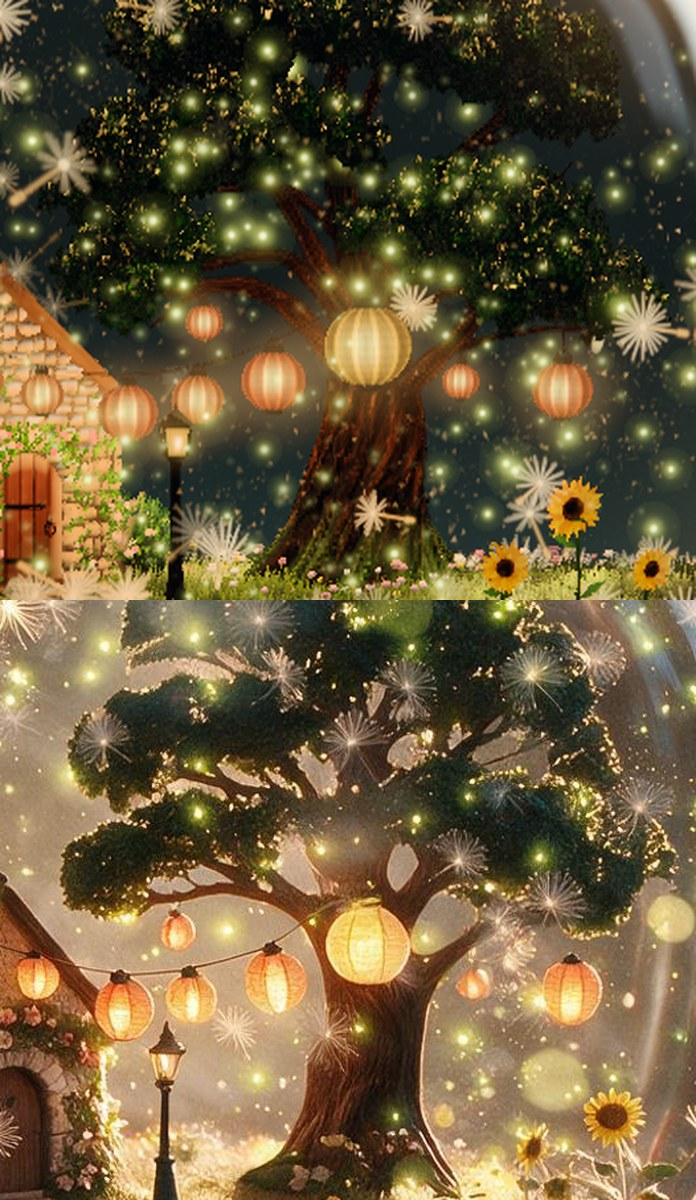
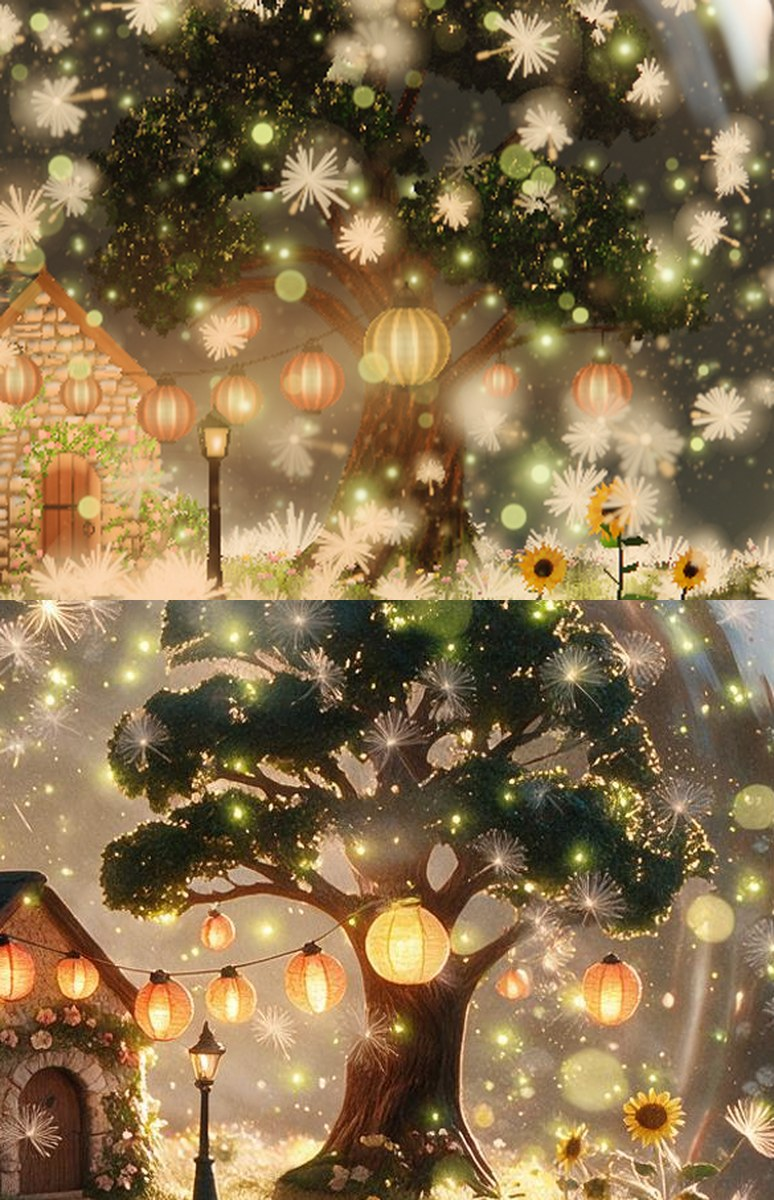
looks: summer miniature at the tip c19be78, REPORT.md and HANDOVER.md
Make targets, in order: npm run make -- tree-summer, npm run make -- village-summer, then npm run texpack, npm run build.

diff --git a/REPORT.md b/REPORT.md
@@ -1,0 +1,97 @@
+# summer_mini2: report (Phase 4, summer miniature, second set)
+
+Times are UTC, 25 Nov 2026, read from `date -u`.
+
+## Branch
+- `agent/p4-summer_mini2`, last commit `c19be78` (merge of main `194209a` over `2dc802e`), pushed 05:12.
+- Looks: `agent/p4-summer_mini2-looks` (orphan), this report and `HANDOVER.md` live there.
+- My commits, oldest first: `125ef00`, `6b12ad1`, `e2dc3ca`, `d8a8029`, `31350a0`, `fb76e68`, `2b9098f`, `5563d46`, `d3d1ea1`, `8dd8d2c`, `9d0e8ba`, `2dc802e`.
+
+## Make targets, in order
+1. `npm run make -- tree-summer` (about 11 s)
+2. `npm run make -- village-summer` (about 2 s)
+3. `npm run texpack`
+4. `npm run build`
+
+For a true triangle count of the season, `npm run make -- base-summer` (bases2's target, 26 s) has to run too after `git checkout -- assets-full public/assets`; my clone did not do that until 05:13, and my season figures of 04:58 were wrong for that reason (see below).
+
+Make prints at the tip:
+- `tree-summer: leaves 49404 triangles (7649 tufts, 32576 triangles at medium, 27988 at low), lanterns 11744 (10 lanterns); 138 lumps on 10 pads`
+- `village-summer: ground 31920, water 2160, grass 63000 (21000 tufts, 32487 at medium, 21345 at low), decor 29061 (141 roses, 7400 leaves, 5 sunflowers, 249 blooms)`
+- Web files: `public/assets/summer/tree-summer.glb` 1,504,772 bytes, `village-summer.glb` 4,622,040 bytes.
+
+## Stand-ins and fallbacks
+None in my files. No pixel of an approved image is in the app.
+
+## Round 9 issues, what was done
+| Issue | State | Commit |
+| --- | --- | --- |
+| Pond a flat opaque cream cutout (R1 #9, R3-1, R3-2, R2) | Dark water; bank, post, trunk and lanterns mirrored and broken on ripples; sky patch; dark wet bank. Seen on the hero still. Not done: mossy stones on the far shore, a shallow submerged edge. | `125ef00`, `e2dc3ca` |
+| No sand rim, no stepping stones (R1 #9) | Sand rim and stones are there. The woven tile in the sand is gone (grain from a noise in globe millimetres), tone drawn towards white. Still cream-grey and flat beside the approved fluffy white sand. | `125ef00`, `fb76e68`, `5563d46` |
+| Lanterns pale and chalky (R1 #13) | Vertical gores, saturated paper, core lowered so the orange holds. Still a little paler than the approved ones. | `e2dc3ca`, `9d0e8ba` |
+| Lamp head an opaque white block (R1 #13) | Amber glass. Still a glowing block: the approved lamp is a black lantern with warm panes. Shape is shared. | `d8a8029` |
+| Trunk a smooth cone (R1 #14, R3-2) | Fluted bark relief, rim light on the forks. | `125ef00` |
+| Crown a dense opaque mass, repeated clumps (R1 #14, R2, R3-2) | Sprays vary in scale and tone, crown fuller and darker teal, gold on the rims. Still lighter and more speckled than the approved crown. | `d8a8029`, `2b9098f`, `5563d46`, `9d0e8ba` |
+| Cottage: roof, chimney, windows, ivy, sunflowers, fence (R1 #12, R2) | Found the cause of the pale gable: the roof's solid fills the gable, so the wall above the eaves was painted as slate. Now warm stone gable, brown plank door, blue slate, grey chimney, ivy and roses on the side wall, wooden pickets, larger sunflower leaves. Not done: chimney height, roof thickness and fence shape are shared shapes. | `d3d1ea1`, `8dd8d2c` |
+| G15 triangles | My files 187,289 / 124,273 / 78,386 (high / medium / low) = 0.719 / 0.607 / 0.456 of `fe1072c` (260,547 / 204,775 / 171,933); limits 0.73 / 0.70 / 0.78. | `d8a8029`, `31350a0`, `2dc802e` |
+
+Nothing the approved pair asks for was undone. The critic's wish for snow caps was ignored as told.
+
+## Still wrong, worst first
+1. Crown: lighter, more olive and more speckled than the approved dark teal mass with a gold rim.
+2. Sand rim inside the glass: cream-grey and flat; the approved one is fluffy white with sunlit highlights and shadow.
+3. Lamp head: a glowing amber block, not a black lantern with warm panes (shared shape; a dark frame could be added as decor in `assets-src/village-summer/build.mjs`).
+4. Cottage: stone courses read as bricks, roof thin, chimney too tall, fence is a picket fence (the last three are shared shapes).
+5. Pond: bright patch peach rather than cream-white and smaller than in the approved picture; no mossy stones on the far shore; bank reads as one dark line.
+6. Lanterns a little paler than the approved ones.
+7. Sunflowers not looked at closely after the last change (larger leaves); they were named "overly simple" in R2.
+8. M3 has only been run at draft tier here (0.8834, pass). An earlier observation in this session was that draft reads about 0.16 higher than final for this measure; I did not run it at final tier, so a pass at final is not shown.
+9. Outside my files, but in front of my part: on main since about 04:50 the dandelion seeds are large and many and lie heaped on the grass and the pond in the hero still at rest (looks picture 01).
+
+## Triangles (G15)
+- Baseline at `fe1072c`, measured in a temporary worktree: tree 74,304 / 64,014 / 57,585, village 186,243 / 140,761 / 114,348.
+- Now, per mesh (high / medium / low): leaves 49,404 / 32,576 / 27,988; lanterns 11,744 / 11,744 / 3,709; ground 31,920 / 18,322 / 5,923; water 2,160 / 83 / 38; grass 63,000 / 32,487 / 21,345; decor 29,061 / 29,061 / 19,383.
+- Season, `node out/work/bin/tris.mjs summer` on `c19be78` with base-summer remade, 05:14: drawn 1,659,436 of 1,800,000 (high), 915,548 of 1,100,000 (medium), 438,010 of 600,000 (low).
+- Passes found: view, shadow (casters), planar mirror of the slab at high and medium (whole stage drawn again with the world's height scale at -1). In my files: grass gives the mirror nothing, the ground casts no shadow, the cottage mesh gives the mirror only its shared walls (decor left out). The hero still at rest was identical pixel for pixel before and after the last of these.
+- Corrections: the message of `31350a0` gives wrong figures for my files (122,383 / 85,603); the right ones at that commit were 188,879 / 126,383 / 81,400. My season figures sent at 04:58 (1,983,482 / 1,205,844 / 536,568) counted the committed, uncut `base-summer.glb`, because my clone had not remade it.
+
+## Tests
+- `npx tsc --noEmit`: clean before every push.
+- `npx vitest run`: `Test Files 32 passed | 1 skipped (33)`, `Tests 432 passed | 4 skipped (436)` before every push, last at 05:11.
+- `npm run determinism`: run 05:15 to 05:21 on `c19be78`; last line `determinism: pass · 3 pictures, 4 page loads, preview, draft, 352 s`.
+- `npm run measure -- --unit summer --only M2,M3,M6 --tier draft`: run 05:21 to 05:25 on `c19be78`; `measure summer: not complete · 13 of 19 lines, 0 red · draft · 258 s`. `pass M3 summer-rest: 0.8835 (threshold 0.75, detail.minSharpnessRatio)`, miniature 0.884 over 120,438 pixels, base 2.145; `pass M2` at 0 for rest, shake, interior, base, surface and settled; M6 passed in the run at 05:02 on `9d0e8ba` (0 of 102,000 particles inside a solid at rest, 9 of 102,000 in the shake) and was among the 13 lines without red in the last run.
+
+## Looks
+About 38 of 40 viewed (the count before 04:22 is from my notes and is approximate), all hero or interior stills at `--tier draft --format hd` beside the approved crop, or crops of them. Two more renders were made and not viewed: one at 04:41 after an edit script had failed (identical to the one before), one at 05:11 compared by pixel only.
+
+## Mistakes of mine
+- At 03:52 I once used `git add -A .` inside the looks worktree (only pictures and captions were in it). Every other commit names its paths.
+- Between 04:22 and 04:53 I rendered with summer_air2's `rig.ts`, `veil.ts` and `glass.ts` copied over my working tree (never committed) to see my part under their light. After main took their later commit the copies were stale; the still viewed at 04:51 was made with them and is not a true picture of any commit. From 04:53 on every still is of the committed tree.
+- The caption of looks picture 04 in `e3fba4a` says the lantern string is not drawn. It is drawn; it shows in the later stills.
+
+## Constants at the tip
+`src/seasons/summer/mini/village.ts`
+- `NEAR_WALL = { lamp: { power: 1.3, reachMm: 8, ends: 3 }, pane: { power: 1.6, reachMm: 4.5, ends: 3 }, paper: { power: 3, reachMm: 4.6, ends: 3 } }`, `WALL_FILL = 2.3`
+- `SAND = { white: [0.86, 0.9, 0.98], whiten: 0.8, clumpPerMm: 1.1, grainPerMm: 4.2, heapPerMm: 0.16, heapLow: 0.6, heap: 0.6, body: 3.6, floor: 0.8, wrap: 1.5, foot: 0.85, bump: 0.6, grainLow: 0.62, grain: 0.5, spark: 1.5, topFrom: 0.22, topTo: 0.62 }`
+- `GRASS_LOOK = { fill: 0.1, wrap: 1.0, through: 0.36, near: 2.1, sun: 30, sunRoot: 0.35, shade: 0.6 }`
+- `ROOF = { slate: [0.33, 0.41, 0.56], chimney: [0.4, 0.37, 0.35], stone: [1.12, 0.84, 0.66], stoneMid: 0.34, stoneFlat: 0.45, stoneHue: 0.5, plank: [0.5, 0.26, 0.15], plankMm: 2.2, plankTall: 3.8, pitch: 0.2, stoneMm: 1.4, picket: [0.5, 0.27, 0.14], picketMm: 1.6, pale: 0.25, railTop: [1.5, 1.2, 0.85], door: [0.27, 0.125, 0.08], doorMm: 2.4, reachMm: 0.4 }`
+- `WATER = { spark: 1.1, mass: 0.975, houseMm: 9.5, houseTall: 17, flat: 0.14, wobble: 0.9, rough: 0.035, ripple: 0.0045, fine: 0.0012, shoreFrom: 0.9, shoreTo: 1.0, sky: 2.6, skyFrom: -0.75, skyTo: 0.35, skyAt: 1.5, skyWide: 9.5, skyLow: 0.1, bankMm: 1.6, bankVary: 2.2, bankEdge: 0.16, bankDark: 0.975, env: 0.1, glint: 0.5, squash: 0.14, paperGlint: 2.4, paperMm: 1.5, paperTall: 0.5, post: 0.93, postMm: 0.75, postTall: 11.5, trunk: 0.975, trunkMm: 5.2, trunkTall: 26, body: 0.4 }`
+- `LAMP_GLASS = [1.7, 0.82, 0.22]`; `palette.ts`: `waterSky [1, 0.95, 0.84]`, `waterDeep [0.016, 0.03, 0.03]`
+
+`src/seasons/summer/mini/tree.ts`
+- `WOOD = { relief: 0.95, ridges: 5, warp: 2.6, fine: 0.4, low: 0.42, high: 1.3, from: 0.15, to: 0.85, depthMm: 1.5, rim: 5.5, rimTight: 2.2, side: 0.9, wrap: 0.95, mossTo: 7.5, moss: 0.8 }`, `BARK [0.62, 0.35, 0.19]`
+- `LEAF_TINT = [0.24, 0.55, 0.45]`, `LEAF_VARY = { big: 0.36, mid: 1.15, scaleLow: 0.78, scale: 0.5, cool: [0.5, 0.74, 0.95], warm: [1.15, 1.16, 0.86] }`
+- `LEAF = { rim: 9, rimTight: 3.2, through: 0.7, tight: 3.0, fill: 0.5, wrap: 0.8, bump: 1.0, clumpDark: 0.5, clumpBright: 1.3, top: 5, card: 1.0, topEdge: 1.6, topFrom: 0.06, topTo: 0.2 }`; the gold faces up from `smoothstep(0.2, 0.8, normal.y)`
+- `LANTERN = { rib: 0.6, gores: 12, ring: 0.18, ribs: 26, gain: 0.72, body: 0.6, core: 1.8, tight: 3.0, paper: 0.06, dim: 0.1, ... }`, `HALO = { radius: 2.9, strength: 0.11, hot: 0 }`
+
+`src/seasons/summer/mini/crown.ts`: `FULL = { swell: -0.55, perMm2: 0.5, radius: [0.95, 2.5], dome: 0.8, reach: 1.3, blend: 0.16, knob: 0.3, knobMm: 1.15, wave: 0.45, waveMm: 4.3 }` (this field is also the distance field of the crown at run time).
+
+`assets-src/tree-summer/build.mjs`: `LEAF_CELL = 0.65`, `LEVEL_SPRIGS = { medium: 0.45, low: 0.3 }`, `SPRIGS = { share: 0.8, size: [1.5, 2.6], rise: 0.35, out: 0.34 }`, `TONE = { deep: [0.3, 0.54, 0.3], mid: [0.56, 0.86, 0.44], tip: [0.95, 1.3, 0.62] }`, `PAPER = { orange: [1, 0.19, 0.045], peach: [1, 0.27, 0.07], cream: [1, 0.52, 0.11] }`.
+
+`assets-src/village-summer/build.mjs`: `IVY = { leaves: 760, roses: 14, low: 4.5, size: 0.62 }`, `TURF = { lumpMm: 0.35, fineMm: 0.12, sandMm: 0.7, sandReach: 6.5, sandSides: 0.35 }`, `GRASS = { tufts: 21000, blades: 3, ... }`, `LEVEL = { seed: 4107, medium: { back: 0.4, front: 0.72 }, low: { back: 0.25, front: 0.5 }, zFrom: -12, zTo: 6 }`, `STONE.buried = 0.25`; sunflower leaf size `tall * 0.36`.
+
+## ASSETS.md rows
+The rows come from the `RECIPE.md` of each folder; both were brought up to date in `2dc802e`:
+- `assets-full/summer/tree-summer.glb`: made by `assets-src/tree-summer/build.mjs`, `npm run make -- tree-summer`; mesh `leaves` is the field of the crown walked with marching cubes at 0.65 mm with sprig cards on it, and names its own medium and low lists; mesh `lanterns` unchanged in kind.
+- `assets-full/summer/village-summer.glb`: made by `assets-src/village-summer/build.mjs`, `npm run make -- village-summer`; meshes `ground`, `water`, `grass` (own medium and low lists), `decor` (now also ivy and roses on the side wall).
+- `assets-full/summer/village-turf.lin.tile.png`, `tree-leaves.srgb.tile.w1024.png`, `tree-sprigs.srgb.w512.png`: unchanged by me.

diff --git a/HANDOVER.md b/HANDOVER.md
@@ -1,0 +1,55 @@
+# Handover: summer miniature (from summer_mini2)
+
+Times are UTC, 25 Nov 2026.
+
+## Where things are
+- Branch `agent/p4-summer_mini2`, tip `c19be78`. Looks branch `agent/p4-summer_mini2-looks` (orphan; pictures, `captions.txt`, `REPORT.md`, this file).
+- Nothing of mine is uncommitted. No stand-in, no fallback.
+
+## Files of this part
+- `assets-src/tree-summer/**`: `build.mjs` (crown mesh from the field in `crown.ts`, sprig cards, lanterns, own medium and low index lists written as `primitive.extras.levels`), `RECIPE.md`, `gen/`.
+- `assets-src/village-summer/**`: `build.mjs` (ground, water, grass, decor: roses, ivy, sunflowers, blooms, stones; own level lists for the grass), `RECIPE.md`.
+- `src/seasons/summer/miniature.ts`: exported names unchanged.
+- `src/seasons/summer/mini/village.ts`: turf, sand, pond, grass and wall materials; `dressed()` recolours this season's copy of the shared cottage; `unmirrored()` keeps meshes out of the slab's mirror pass.
+- `src/seasons/summer/mini/tree.ts`: bark, leaves, lanterns, halos.
+- `src/seasons/summer/mini/crown.ts`: the field of the crown, used by the build and as distance field at run time.
+- `src/seasons/summer/mini/palette.ts`, `lanterns.ts`: tones and lantern layout.
+
+## Make targets, in order
+`npm run make -- tree-summer`, `npm run make -- village-summer`, then `npm run texpack`, `npm run build`. Before merging main: `git checkout -- assets-full public/assets`, merge, then the four again. For triangle counts also run `npm run make -- base-summer` first, or the count uses the committed uncut base.
+
+## How to look
+- `npm run still -- --season summer --state rest --camera hero --tier draft --format hd --force` (about 60 s) writes `out/work/stills/summer-rest-hero-hd-draft.png`.
+- Build to approved mapping for crops (`references/approved/summer-rest.png`): x' = 898.62 + (x - 612) * 1.4609, y' = 454.67 + (y - 328) * 1.4609; the miniature sits in the hd box x 612..1308, y 328..720; about 6.5 px per mm.
+- Triangles: `npm run build`, then `node out/work/bin/tris.mjs summer` (2 minutes; `ALL=1` lists the meshes).
+
+## Things that cost me time
+- A GLSL name that is not declared breaks the shader without an error in the terminal: look at a still after every shader edit.
+- `solidDistance(x, y, z, roof)` is small inside the gable too, because the roof's solid is a prism over the whole house. `dressed()` therefore asks for an up-facing normal (`ROOF.pitch`) before it paints slate.
+- Decor is merged into the cottage mesh after the shared geometry, so the first `shared.index.count` indices are the shared walls; the mirror pass draws only those.
+- M3 at draft tier reads higher than at final tier (about 0.16 in one comparison earlier in this session). Only the final tier counts.
+- The crown's field in `crown.ts` is also its collider: making the crown larger moves where seeds snag.
+- My high level has little room left under the G15 share: 187,289 of 190,199.
+
+## What I would do next, worst first
+1. Crown: darker teal body (lower `LEAF.fill`, `clumpBright`), gold only on the upper silhouette (`LEAF.card` towards 0.6, keep `top`).
+2. Sand rim: more white and relief (raise `SAND.whiten`, `SAND.heap`; a second, mid-sized noise for clumps).
+3. Lamp head: add a dark frame, cap and finial around the shared lamp ball as decor (few triangles), keep the amber glass.
+4. Cottage stone: break the regular courses (the grain comes from the shared map; a low-frequency tone noise on the vertex colours in `dressed()` would help), thicker-looking roof by a darker underside on the verge.
+5. Pond: larger and creamier sky patch (`WATER.skyTo`, `skyWide`, `palette.waterSky`), a few mossy stones on the far shore in the build.
+6. Check the sunflowers close up; run M3 at final tier.
+7. Tidy `village.ts`: the pond's list of sources (line 172) still carries the mirrored lamp and the window at strength 0.
+
+## What I tried and what it gave
+- Pale front gable: lowering the near lights on the walls (`NEAR_WALL` lamp 0.6, pane 0.8, paper 1.6) changed nothing; the cause was the slate paint on the gable (see above). `NEAR_WALL` is back at 1.3 / 1.6 / 3.
+- Stone: `ROOF.stone [1.34, 1.06, 0.76]` without flattening read yellow with high contrast; `[1.12, 0.84, 0.66]` with `stoneMid 0.34`, `stoneFlat 0.45` reads as warm tan. `WALL_FILL` 2.8 was too pale on the side wall, 2.3 holds.
+- Crown: `FULL.radius [0.8, 2.1]`, `reach 1.22`, `swell -0.9` left large gaps between the pads; `[0.95, 2.5]`, `1.3`, `-0.55` closes them. The coarser cell (0.65 mm against 0.56) with `SPRIGS.share 0.8` keeps the number of sprays (7,649) and cuts 4,516 triangles. `LEAF.card 1.6` put gold on every spray; 1.0 with `top 5` keeps it nearer the rims.
+- Lanterns: `core 2.6` washed the paper to salmon; 1.8 with `gain 0.72`, `body 0.6` keeps the orange.
+- Sand: the turf map at x5.3 and x13.7 showed as a woven tile through the glass; value noise on the stage position at 1.1 and 4.2 per mm does not.
+- Triangles: taking the grass out of the mirror pass and the ground out of the shadow pass changed the hero still by at most 41 of 255 in 117 pixels; taking the decor out of the mirror pass changed nothing in it.
+
+## What I could not see
+- Any state other than rest from the hero camera after 04:22 (the interior camera at rest was seen once, at `31350a0`); shake, landed, settled and the change between seasons were not looked at with the later commits. M2 and M6 pass at draft tier for rest, shake, interior, base, surface and settled.
+- The medium and low levels as pictures: only their triangle counts were checked.
+- M3 at final tier.
+- The slab's mirror close up after the decor left it (only the hero still was compared).
